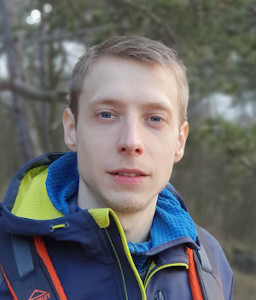
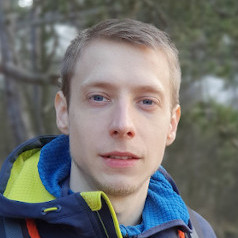
about

diff --git a/_pages/about.md b/_pages/about.md
@@ -8,14 +8,15 @@ permalink: /about/
 <table style="border: none; border-collapse: collapse;">
     <tbody>
         <tr style="border: none;">
-            <td style="width: 250px; border: none;">
+            <td style="width: 200px; border: none;">
                 <img src="/pages/images/me.jpg" />
             </td>
             <td style="border: none;">
-                <p> I am a PhD candidate at [IST Austria](https://ist.ac.at/) at the research group of
-                    [TomHenzinger](https://ist.ac.at/en/research/henzinger-group/). My research topics are Machine
-                    Learning,
-                    Formal Methods, and Robotics.</p>
+                <p> I am a PhD candidate at <a href="https://ist.ac.at/">IST Austria</a> at the research group of
+                    <a href="https://ist.ac.at/en/research/henzinger-group/">Tom Henzinger</a>. My research focues on
+                    Machine
+                    Learning, Formal Methods, and Robotics.
+                </p>
             </td>
         </tr>
     </tbody>
